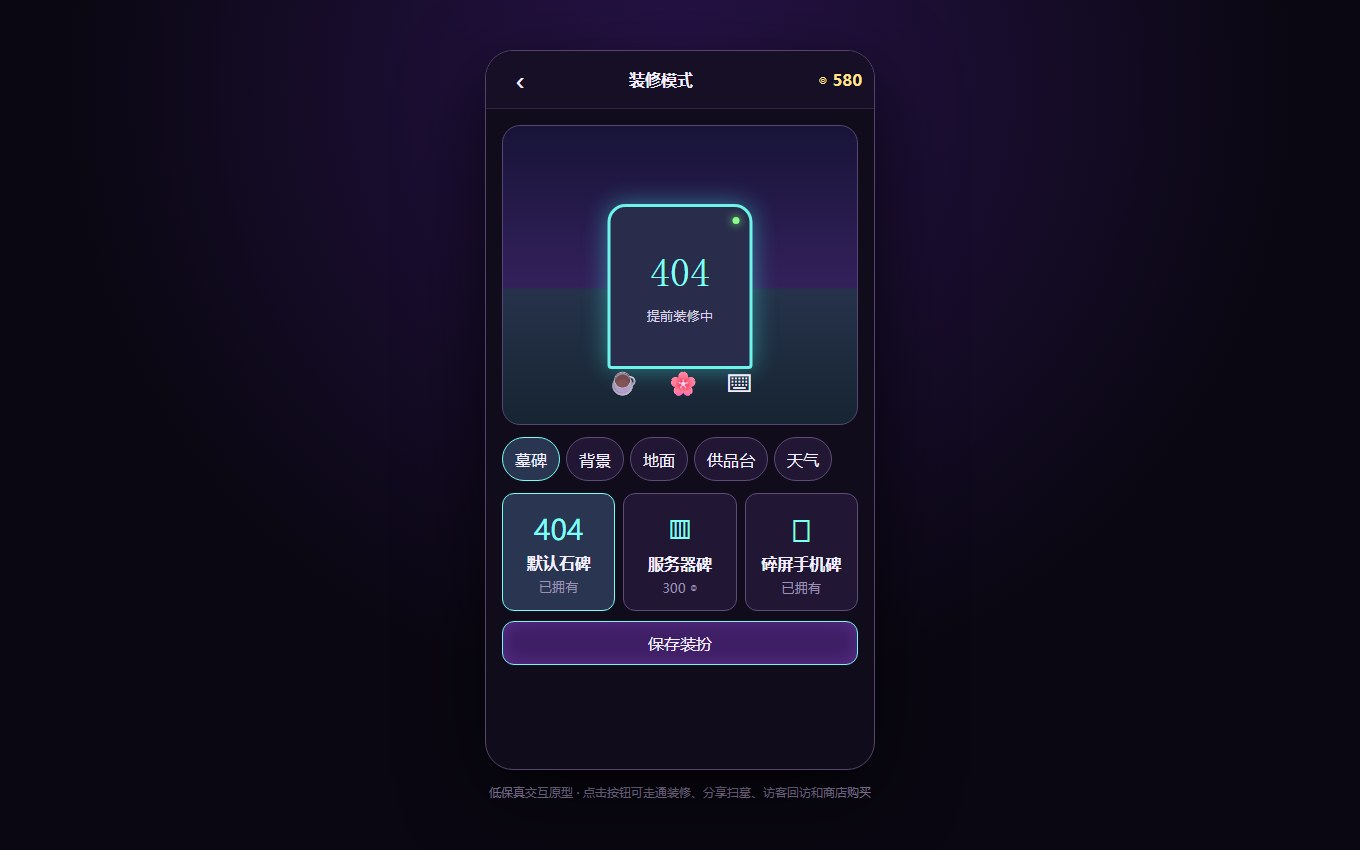
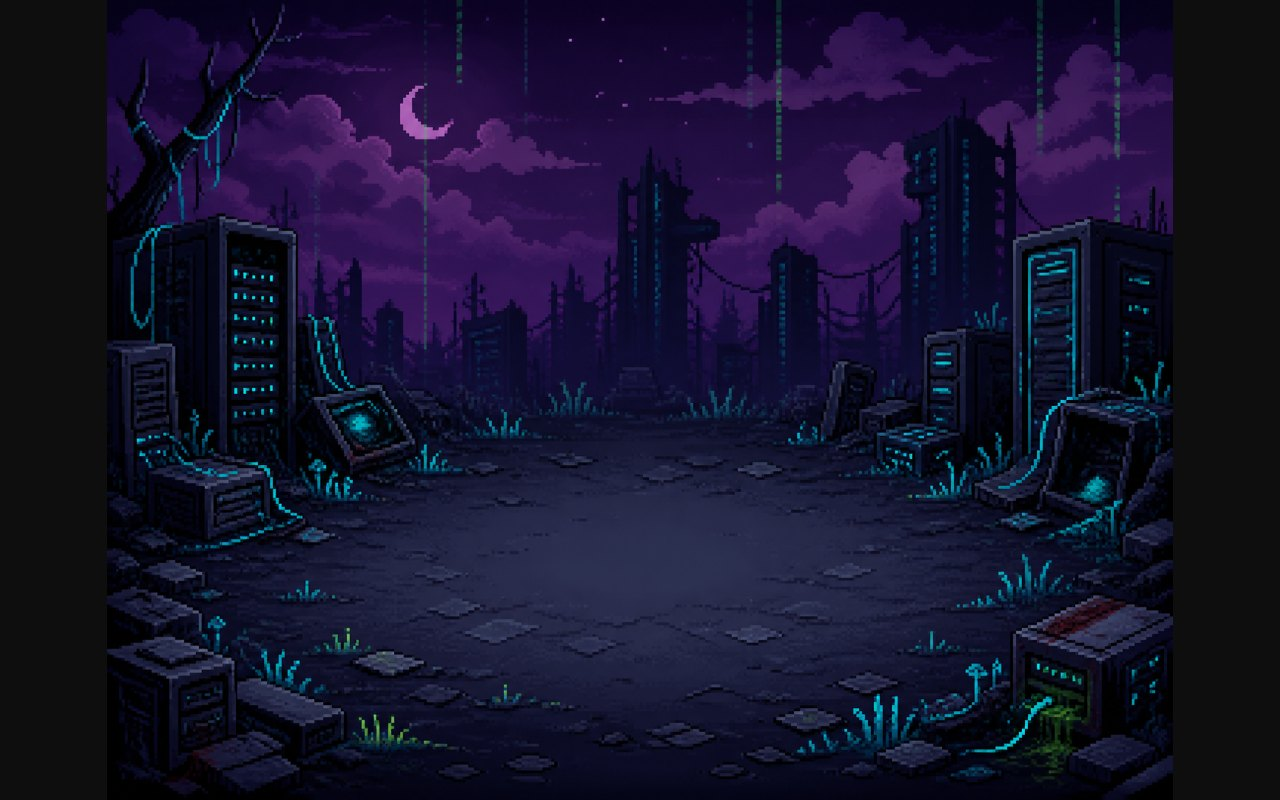
feat: 墓前在线陈列页改版——移除内嵌，改用截图集与原型外链
- playableWeb 改为 false，移除 iframe 嵌入
- 截图集扩为 4 张：低保真原型 + 像素美术图集三张（墓园场景/墓碑组件/供品道具）
- 新增体验入口：低保真原型新标签打开
- 正文扩充策划案定调（三句宣传语/目标用户）与两段式验证路径说明

diff --git a/src/content/games/tomb-online.md b/src/content/games/tomb-online.md
@@ -20,12 +20,20 @@ thumbnail: /images/games/tomb-online-cover.svg
 screenshots:
   - src: /images/games/tomb-online-shot-1.jpg
     title: 低保真原型：我的墓园主界面
-    note: 第一周可点击原型——墓园、金币钱包与功能入口的完整信息架构。
+    note: 第一周可点击原型——墓园、金币钱包与功能入口的完整信息架构验证。
   - src: /images/games/tomb-online-shot-2.jpg
-    title: 装扮与互动流程
-    note: 原型验证"布置 → 邀请 → 扫墓 → 结算"的社交循环手感，再做 Unity 切片。
-playableWeb: true
-embedUrl: /play/tomb-online/index.html
+    title: 美术验证：墓园场景图集
+    note: 像素风墓园场景的组件拆分——夜景、月亮与地面网格构成"数据夜空"基调。
+  - src: /images/games/tomb-online-shot-3.jpg
+    title: 美术验证：墓碑组件集
+    note: 墓碑是玩家的核心表达载体，造型集合支撑"一眼看出是我的"的个性化需求。
+  - src: /images/games/tomb-online-shot-4.jpg
+    title: 美术验证：供品与互动道具
+    note: 献花、上香等扫墓互动的视觉元素——低压力社交动作的具体化。
+playableWeb: false
+downloadLinks:
+  - label: 打开低保真原型（新标签页）
+    url: /play/tomb-online/index.html
 repoUrl: https://github.com/HongyiLU/tomb-online
 role: 玩法与社交系统设计 / 经济系统设计 / 验收标准制定
 teamSize: 单人（AI 全程实现）
@@ -71,5 +79,25 @@ milestones:
 ---
 
 社交压力设计是这款游戏的核心命题：扫墓互动必须轻到"顺手就做了"，但奖励要双边成立——墓主被来访的满足感，和访客动手的趣味感，缺一半循环就不转。
+
+## 策划案定调
+
+三句宣传语决定了整个游戏的语气：
+
+- "我还活着，但你可以先来看看我。"
+- "每天拜一拜，友情不断线。"
+- "这里记录的不是死亡，而是一个人在互联网上留下的痕迹。"
+
+目标用户是 16~35 岁、熟悉网络文化但不愿投入大量时间的玩家——所以所有互动都设计成 30 秒～3 分钟的单局节奏，黑色幽默负责传播，温情负责留存。
+
+## 验证路径
+
+微信小游戏本体依赖微信容器，无法直接网页试玩。当前的展示策略是两段式：
+
+1. **低保真原型**（本页提供新标签入口）：验证"布置 → 邀请 → 扫墓 → 结算"的社交循环手感与信息架构；
+2. **Unity 垂直切片**：面向微信端实现本地双账号分享、扫墓互动与双边金币结算，收口后以实机录像形式补充展示。
+
+美术方向以像素风为基底做验证，上图是墓园场景与核心组件的图集拆分。
+
 
 页面内嵌的是第一周低保真原型（可直接玩），Unity 小游戏切片面向微信端，等切片收口后会录制实机画面替换展示。
